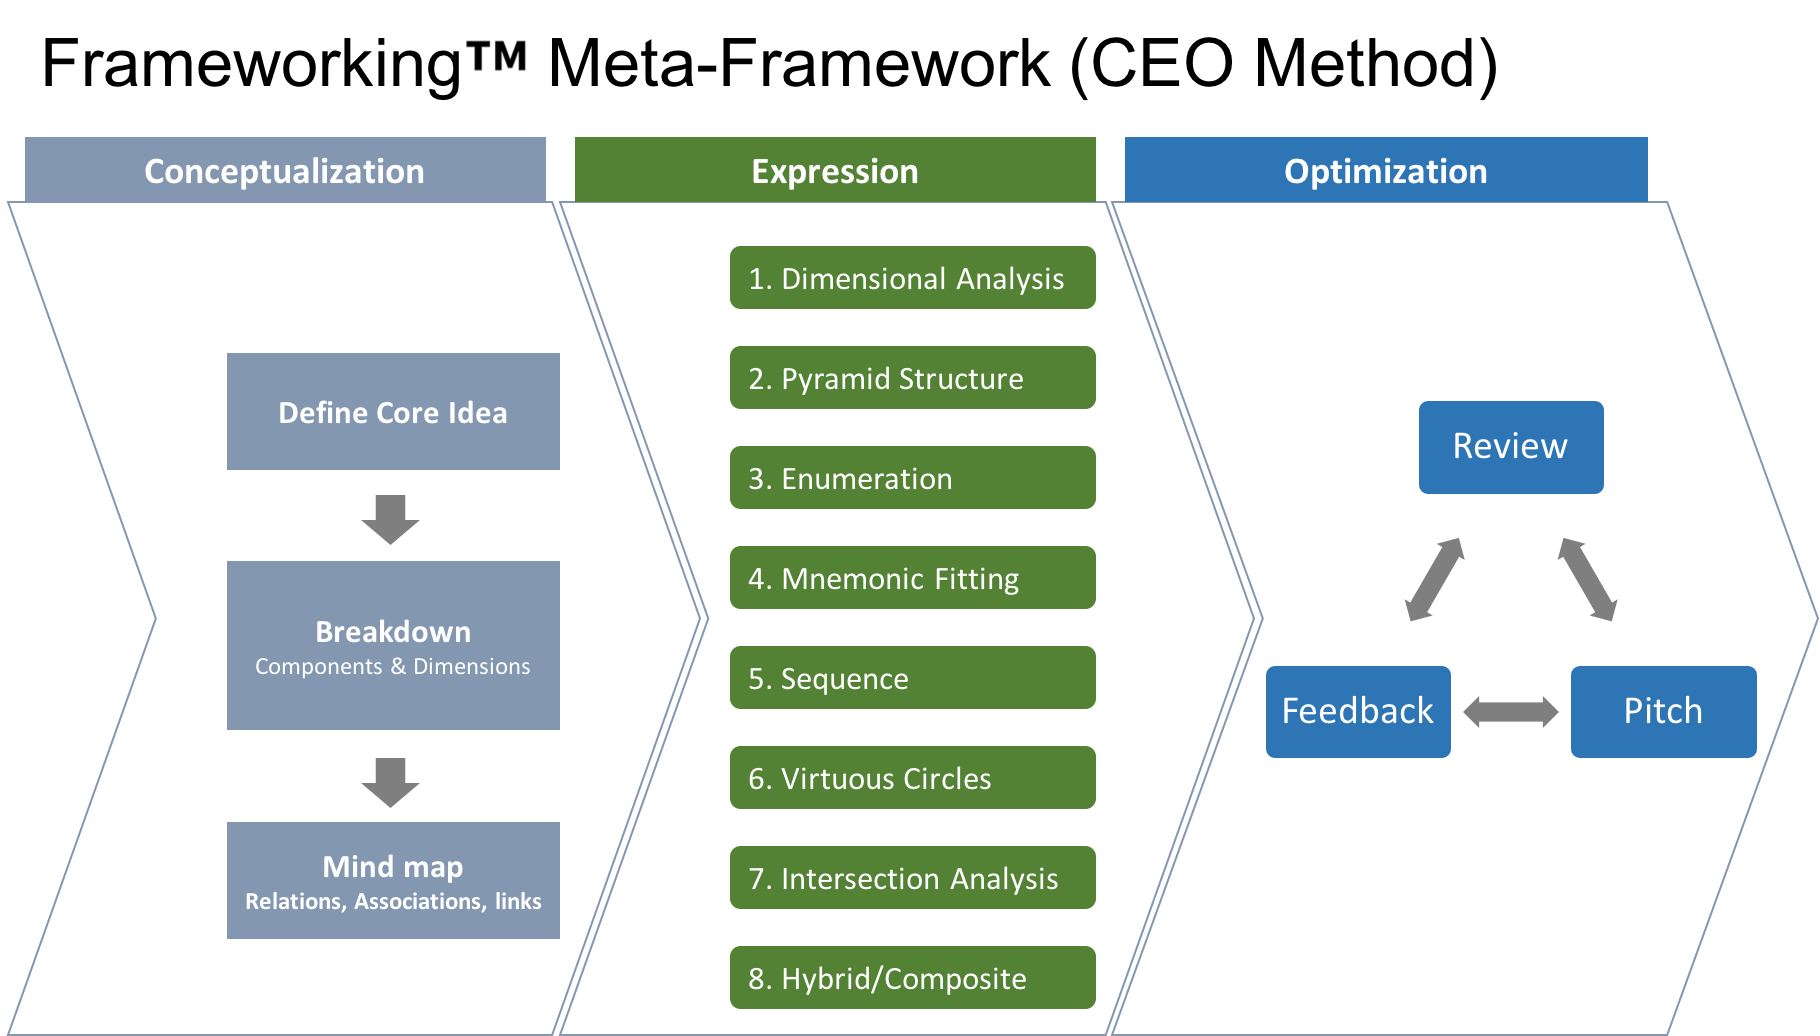
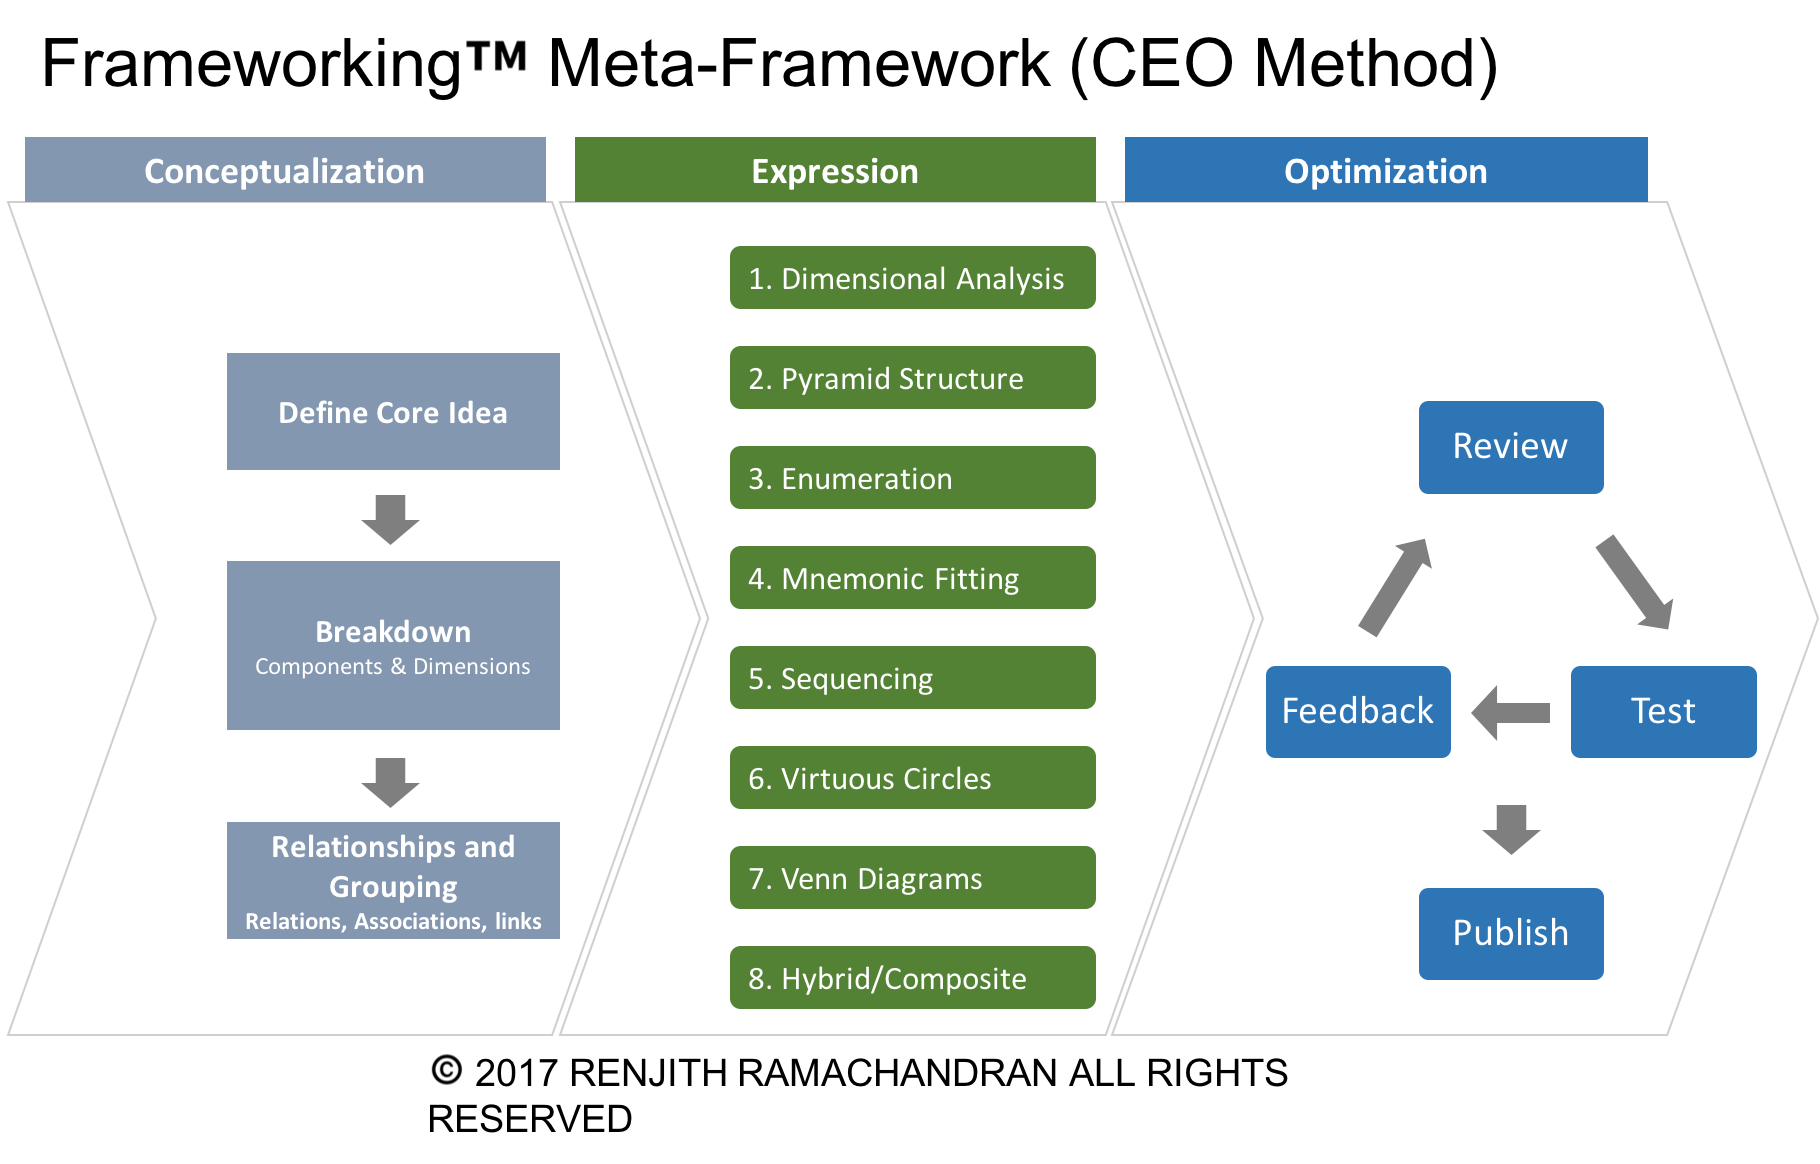
Home Page Structure Change

diff --git a/_site/framethink/index.html b/_site/framethink/index.html
@@ -92,7 +92,7 @@
           
             
             
-            <a class="page-link" href="/">Leadership</a>
+            <a class="page-link" href="/">My Frameworks</a>
             
           
             
@@ -197,7 +197,7 @@ In this article, I will provide a meta-framework for creating your own framework
 
 <h2 id="expression">Expression</h2>
 
-<p>Once the concept is understood in a very thorough fashion during the conceptualization stage, the next stage is to take the concept and package it in a manner that is easily consumable by others. This step involved fitting and shaping the elements of the concept into one of the expression techniques. There are primarily 8 different techniques for expression.</p>
+<p>Once the concept is understood in a very thorough fashion during the conceptualization stage, the next stage is to take the concept and package it in a manner that is easily consumable by others. This step involves fitting and shaping the elements of the concept into one of the expression techniques. There are primarily 8 different techniques for expression.</p>
 
 <ol>
   <li><strong>Dimensional Analysis</strong> - Dimensional Analysis involved looking at some interesting dimensions of a concept and then looking at the interplay between these dimensions. a Good example of this is the <a href="https://en.wikipedia.org/wiki/Growth–share_matrix">BCG Growth Share Matrix</a>. In this method, the x-axis represents the Relative market share and the y-axis represents the Market growth rate. The relationship between the two creates an interesting way to position the business units with in a company into categories (Dogs, Stars, Cash Cows and Question Marks)</li>
@@ -211,7 +211,6 @@ In this article, I will provide a meta-framework for creating your own framework
 <img src="/assets/images/frameworking/5_6.png" alt="5 and 6" /></li>
   <li><strong>Venn Diagram</strong> - Another way to convey a concept is to show an intersection between the various groups to show an overlapping relationship between them. It is great at visually organizing information and useful especially with sets to communicate overlap. Jim Collin’s <a href="https://www.mindtools.com/pages/article/hedgehog-concept.htm">Hedgehog concept</a> from the book “<a href="https://www.amazon.com/Good-Great-Some-Companies-Others-ebook/dp/B0058DRUV6/ref=sr_1_1?ie=UTF8&amp;qid=1504544335&amp;sr=8-1&amp;keywords=good+to+great">Good to Great</a>” is a good example of this.</li>
   <li><strong>Hybrid/Composite</strong> - Some concepts are too complex to represent with these foundational representation. So they either use a combination of these methods to represent this concept. Good example of this is the <a href="https://en.wikipedia.org/wiki/Value_chain">Value Chain framework</a> by Potter.
-<img src="/assets/images/frameworking/PorterValueChain.png" alt="Porter's Value Chain" />
 <img src="/assets/images/frameworking/7_8.png" alt="7 and 8" /></li>
 </ol>
 
@@ -240,15 +239,17 @@ In this article, I will provide a meta-framework for creating your own framework
       <li>Does it make the audience share?</li>
     </ul>
   </li>
-  <li>Pitch the framework to others to get initial feedback</li>
-  <li>Incorporate feedback from test pitches and make changes</li>
+  <li>Test the framework with others to get initial feedback</li>
+  <li>Incorporate feedback from tests and make changes</li>
   <li>Iterate steps 1-3 till it is good enough to publish</li>
   <li>Publish in your blog, company presentation or other forum.</li>
   <li>Keep using the framework at any opportunity you have. Continue to fine tune as you get more feedback about this.</li>
 </ol>
 
 <h1 id="in-conclusion">In Conclusion</h1>
-<p>I hope this meta-framework gave you a good foundation to building your own frameworks that inspire people. If you liked this article, please share with others who may find it useful. Thank you for reading. Also any feedback in the comments section will be appreciated.</p>
+<p>I hope this meta-framework gave you a good foundation to building your own frameworks that inspire people. If you liked this article, please share with others who may find it useful. Thank you for reading. Any feedback in the comments section will be appreciated.</p>
+
+<p>Visit <a href="http://ramachandran.io">ramachandran.io</a> for other interesting frameworks by me.</p>
 
   </div>
 

diff --git a/_site/index.html b/_site/index.html
@@ -6,7 +6,7 @@
   <meta http-equiv="X-UA-Compatible" content="IE=edge">
   <meta name="viewport" content="width=device-width, initial-scale=1">
 
-  <title>Leadership</title>
+  <title>My Frameworks</title>
   <meta name="description" content="My blog to publish my thoughts on Technology, Strategy, Management">
 
   <link rel="stylesheet" href="/assets/main.css">
@@ -18,8 +18,8 @@
   
 
   <!-- Begin Jekyll SEO tag v2.2.3 -->
-<title>Leadership | Renjith Ramachandran</title>
-<meta property="og:title" content="Leadership" />
+<title>My Frameworks | Renjith Ramachandran</title>
+<meta property="og:title" content="My Frameworks" />
 <meta property="og:locale" content="en_US" />
 <meta name="description" content="My blog to publish my thoughts on Technology, Strategy, Management" />
 <meta property="og:description" content="My blog to publish my thoughts on Technology, Strategy, Management" />
@@ -27,7 +27,7 @@
 <meta property="og:url" content="http://localhost:4000/" />
 <meta property="og:site_name" content="Renjith Ramachandran" />
 <script type="application/ld+json">
-{"@context":"http://schema.org","@type":"WebSite","name":"Renjith Ramachandran","headline":"Leadership","description":"My blog to publish my thoughts on Technology, Strategy, Management","url":"http://localhost:4000/"}</script>
+{"@context":"http://schema.org","@type":"WebSite","name":"Renjith Ramachandran","headline":"My Frameworks","description":"My blog to publish my thoughts on Technology, Strategy, Management","url":"http://localhost:4000/"}</script>
 <!-- End Jekyll SEO tag -->
 
 </head>
@@ -92,7 +92,7 @@
           
             
             
-            <a class="page-link" href="/">Leadership</a>
+            <a class="page-link" href="/">My Frameworks</a>
             
           
             
@@ -128,27 +128,38 @@
 
     <main class="page-content" aria-label="Content">
       <div class="wrapper">
-        <h2 id="leadership">Leadership</h2>
+        <h1 id="my-frameworks">My Frameworks</h1>
+<h2 id="leadership">Leadership</h2>
 <ul>
   <li><a href="/hpt">7 Dimensions of High Performance Teams</a></li>
-  <li><a href="/victori">VICTORI framework for effective technology leadership</a></li>
+  <li><a href="/victori">VICTORI™ framework for effective technology leadership</a></li>
 </ul>
 
 <h2 id="strategy">Strategy</h2>
 <ul>
-  <li><a href="/deltadigital">Delta Digital Framework - A holistic approach for Digital Strategy</a></li>
+  <li><a href="/deltadigital">Delta™ Digital Framework - A holistic approach for Digital Strategy</a></li>
   <li><a href="/framethink">Frameworking™ - True success with Ideas</a></li>
 </ul>
 
 <h2 id="architecture-and-technology">Architecture and technology</h2>
 <ul>
-  <li><a href="/lama/">Lean Architecture Method for Agile</a></li>
-  <li><a href="http://ramachandran.io/2017/08/10/AgileQuant.html">A Quantitative look at Agile</a></li>
+  <li><a href="/lama/">Lean Architecture Method for Agile - LAMA™</a></li>
 </ul>
 
 <h2 id="personal-development">Personal Development</h2>
 <ul>
-  <li><a href="/hireading">High Impact Reading - Simple Framework</a></li>
+  <li><a href="/hireading">High Impact Reading - SIMPLE™ Framework</a></li>
+</ul>
+
+<h1 id="demystify-series">Demystify series</h1>
+<ul>
+  <li>Coming Soon: Demystifying BlockChain</li>
+  <li>Coming Soon: Demystifying Machine Learning</li>
+</ul>
+
+<h1 id="thoughts-and-commentaries">Thoughts and Commentaries</h1>
+<ul>
+  <li><a href="http://ramachandran.io/2017/08/10/AgileQuant.html">A Quantitative look at Agile</a></li>
 </ul>
 
       </div>

diff --git a/_site/2017/07/17/lama.html b/_site/2017/07/17/lama.html
@@ -94,7 +94,7 @@
           
             
             
-            <a class="page-link" href="/">Leadership</a>
+            <a class="page-link" href="/">My Frameworks</a>
             
           
             

diff --git a/_site/2017/07/30/victori.html b/_site/2017/07/30/victori.html
@@ -94,7 +94,7 @@
           
             
             
-            <a class="page-link" href="/">Leadership</a>
+            <a class="page-link" href="/">My Frameworks</a>
             
           
             

diff --git a/_site/2017/08/10/AgileQuant.html b/_site/2017/08/10/AgileQuant.html
@@ -94,7 +94,7 @@
           
             
             
-            <a class="page-link" href="/">Leadership</a>
+            <a class="page-link" href="/">My Frameworks</a>
             
           
             

diff --git a/_site/2017/08/11/DigitalStrategy.html b/_site/2017/08/11/DigitalStrategy.html
@@ -94,7 +94,7 @@
           
             
             
-            <a class="page-link" href="/">Leadership</a>
+            <a class="page-link" href="/">My Frameworks</a>
             
           
             

diff --git a/_site/2017/08/20/hireading.html b/_site/2017/08/20/hireading.html
@@ -94,7 +94,7 @@
           
             
             
-            <a class="page-link" href="/">Leadership</a>
+            <a class="page-link" href="/">My Frameworks</a>
             
           
             

diff --git a/_site/2017/08/26/hpt.html b/_site/2017/08/26/hpt.html
@@ -94,7 +94,7 @@
           
             
             
-            <a class="page-link" href="/">Leadership</a>
+            <a class="page-link" href="/">My Frameworks</a>
             
           
             

diff --git a/_site/404.html b/_site/404.html
@@ -92,7 +92,7 @@
           
             
             
-            <a class="page-link" href="/">Leadership</a>
+            <a class="page-link" href="/">My Frameworks</a>
             
           
             

diff --git a/_site/about/index.html b/_site/about/index.html
@@ -92,7 +92,7 @@
           
             
             
-            <a class="page-link" href="/">Leadership</a>
+            <a class="page-link" href="/">My Frameworks</a>
             
           
             

diff --git a/_site/deltadigital/index.html b/_site/deltadigital/index.html
@@ -92,7 +92,7 @@
           
             
             
-            <a class="page-link" href="/">Leadership</a>
+            <a class="page-link" href="/">My Frameworks</a>
             
           
             

diff --git a/_site/hireading/index.html b/_site/hireading/index.html
@@ -92,7 +92,7 @@
           
             
             
-            <a class="page-link" href="/">Leadership</a>
+            <a class="page-link" href="/">My Frameworks</a>
             
           
             
